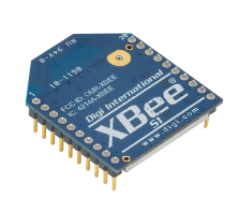
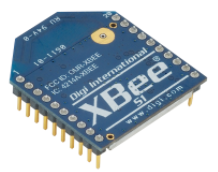
Fixing image

diff --git a/_site/portfolio/trickle/index.html b/_site/portfolio/trickle/index.html
@@ -49,12 +49,12 @@
 
 
 
-  <meta property="og:image" content="https://mdrakos.github.io/images/xbee-ant.png">
+  <meta property="og:image" content="https://mdrakos.github.io/images/xbee.png">
 
 
 
   <meta property="og:type" content="article">
-  <meta property="article:published_time" content="2017-07-26T10:44:46-07:00">
+  <meta property="article:published_time" content="2017-07-26T10:50:51-07:00">
 
 
 
@@ -296,7 +296,7 @@ built for the SAM4S micro controller by <a href="http://embedntks.com/author/rom
   
     
       <a href="https://mdrakos.github.io/images/xbee.png">
-        <img src="https://mdrakos.github.io/images/" alt="" />
+        <img src="https://mdrakos.github.io/images/xbee.png" alt="" />
       </a>
     
   
@@ -317,7 +317,7 @@ built for the SAM4S micro controller by <a href="http://embedntks.com/author/rom
 
 
         
-          <p class="page__date"><strong><i class="fa fa-fw fa-calendar" aria-hidden="true"></i> Updated:</strong> <time datetime="2017-07-26T10:44:46-07:00">July 26, 2017</time></p>
+          <p class="page__date"><strong><i class="fa fa-fw fa-calendar" aria-hidden="true"></i> Updated:</strong> <time datetime="2017-07-26T10:50:51-07:00">July 26, 2017</time></p>
         
       </footer>
 

diff --git a/_site/portfolio/roboMaus/index.html b/_site/portfolio/roboMaus/index.html
@@ -54,7 +54,7 @@
 
 
   <meta property="og:type" content="article">
-  <meta property="article:published_time" content="2017-07-26T10:44:46-07:00">
+  <meta property="article:published_time" content="2017-07-26T10:50:51-07:00">
 
 
 
@@ -386,7 +386,7 @@ built for the SAM4S micro controller by <a href="http://embedntks.com/author/rom
 
 
         
-          <p class="page__date"><strong><i class="fa fa-fw fa-calendar" aria-hidden="true"></i> Updated:</strong> <time datetime="2017-07-26T10:44:46-07:00">July 26, 2017</time></p>
+          <p class="page__date"><strong><i class="fa fa-fw fa-calendar" aria-hidden="true"></i> Updated:</strong> <time datetime="2017-07-26T10:50:51-07:00">July 26, 2017</time></p>
         
       </footer>
 

diff --git a/_site/portfolio/weather/index.html b/_site/portfolio/weather/index.html
@@ -54,7 +54,7 @@
 
 
   <meta property="og:type" content="article">
-  <meta property="article:published_time" content="2017-07-26T10:44:46-07:00">
+  <meta property="article:published_time" content="2017-07-26T10:50:51-07:00">
 
 
 
@@ -224,7 +224,7 @@ it does a quick conversion to either celsius or fahrenheit.</p>
 
 
         
-          <p class="page__date"><strong><i class="fa fa-fw fa-calendar" aria-hidden="true"></i> Updated:</strong> <time datetime="2017-07-26T10:44:46-07:00">July 26, 2017</time></p>
+          <p class="page__date"><strong><i class="fa fa-fw fa-calendar" aria-hidden="true"></i> Updated:</strong> <time datetime="2017-07-26T10:50:51-07:00">July 26, 2017</time></p>
         
       </footer>
 

diff --git a/_site/portfolio/wikipedia-viewer/index.html b/_site/portfolio/wikipedia-viewer/index.html
@@ -54,7 +54,7 @@
 
 
   <meta property="og:type" content="article">
-  <meta property="article:published_time" content="2017-07-26T10:44:46-07:00">
+  <meta property="article:published_time" content="2017-07-26T10:50:51-07:00">
 
 
 
@@ -241,7 +241,7 @@ more.</p>
 
 
         
-          <p class="page__date"><strong><i class="fa fa-fw fa-calendar" aria-hidden="true"></i> Updated:</strong> <time datetime="2017-07-26T10:44:46-07:00">July 26, 2017</time></p>
+          <p class="page__date"><strong><i class="fa fa-fw fa-calendar" aria-hidden="true"></i> Updated:</strong> <time datetime="2017-07-26T10:50:51-07:00">July 26, 2017</time></p>
         
       </footer>
 

diff --git a/_site/portfolio/index.html b/_site/portfolio/index.html
@@ -182,7 +182,7 @@
   <article class="archive__item" itemscope="" itemtype="http://schema.org/CreativeWork">
     
       <div class="archive__item-teaser">
-        <img src="https://mdrakos.github.io/images/xbee-ant.png" alt="" />
+        <img src="https://mdrakos.github.io/images/xbee.png" alt="" />
       </div>
     
     <h2 class="archive__item-title" itemprop="headline">

diff --git a/_portfolio/trickle.md b/_portfolio/trickle.md
@@ -2,7 +2,7 @@
 title: "Wireless Trickle Network"
 excerpt: "A wireless trickle network implemented on the SAM4S microcontroller using xbee wireless radios"
 header:
-    teaser: xbee-ant.png
+    teaser: xbee.png
 sidebar:
   - title: "Role"
     image: xbee-ant.png
@@ -18,7 +18,7 @@ gallery:
   - url: xbee-ant.png
     image_path: xbee-ant.png
   - url: xbee.png
-    image: xbee.png
+    image_path: xbee.png
 ---
 
 [Source Code](https://github.com/MDrakos/trickleNetwork)
